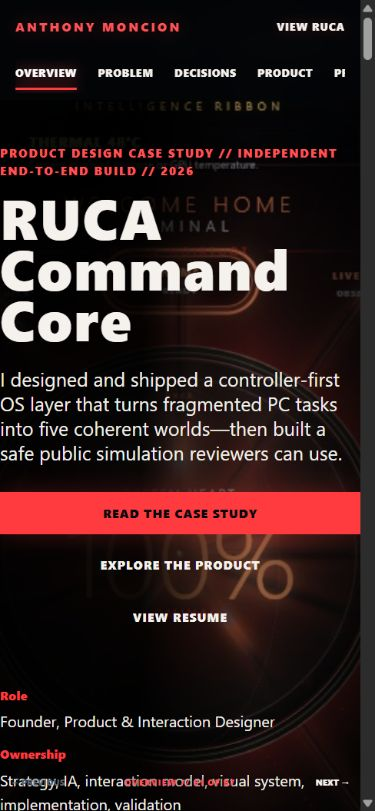
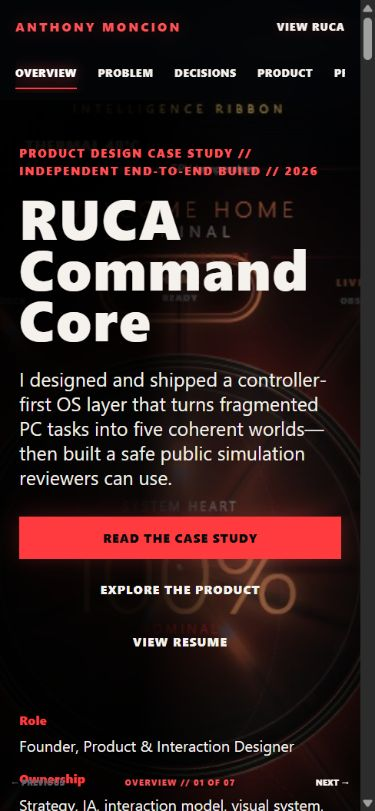
Restore portfolio edge gutters

diff --git a/portfolio/portfolio.css b/portfolio/portfolio.css
@@ -1413,6 +1413,8 @@ section[id] {
 }
 
 .hero-content {
+  width: min(var(--max), calc(100% - clamp(40px, 9vw, 184px)));
+  margin-inline: auto;
   padding-top: calc(var(--nav-height) + 78px);
   padding-bottom: 72px;
 }
